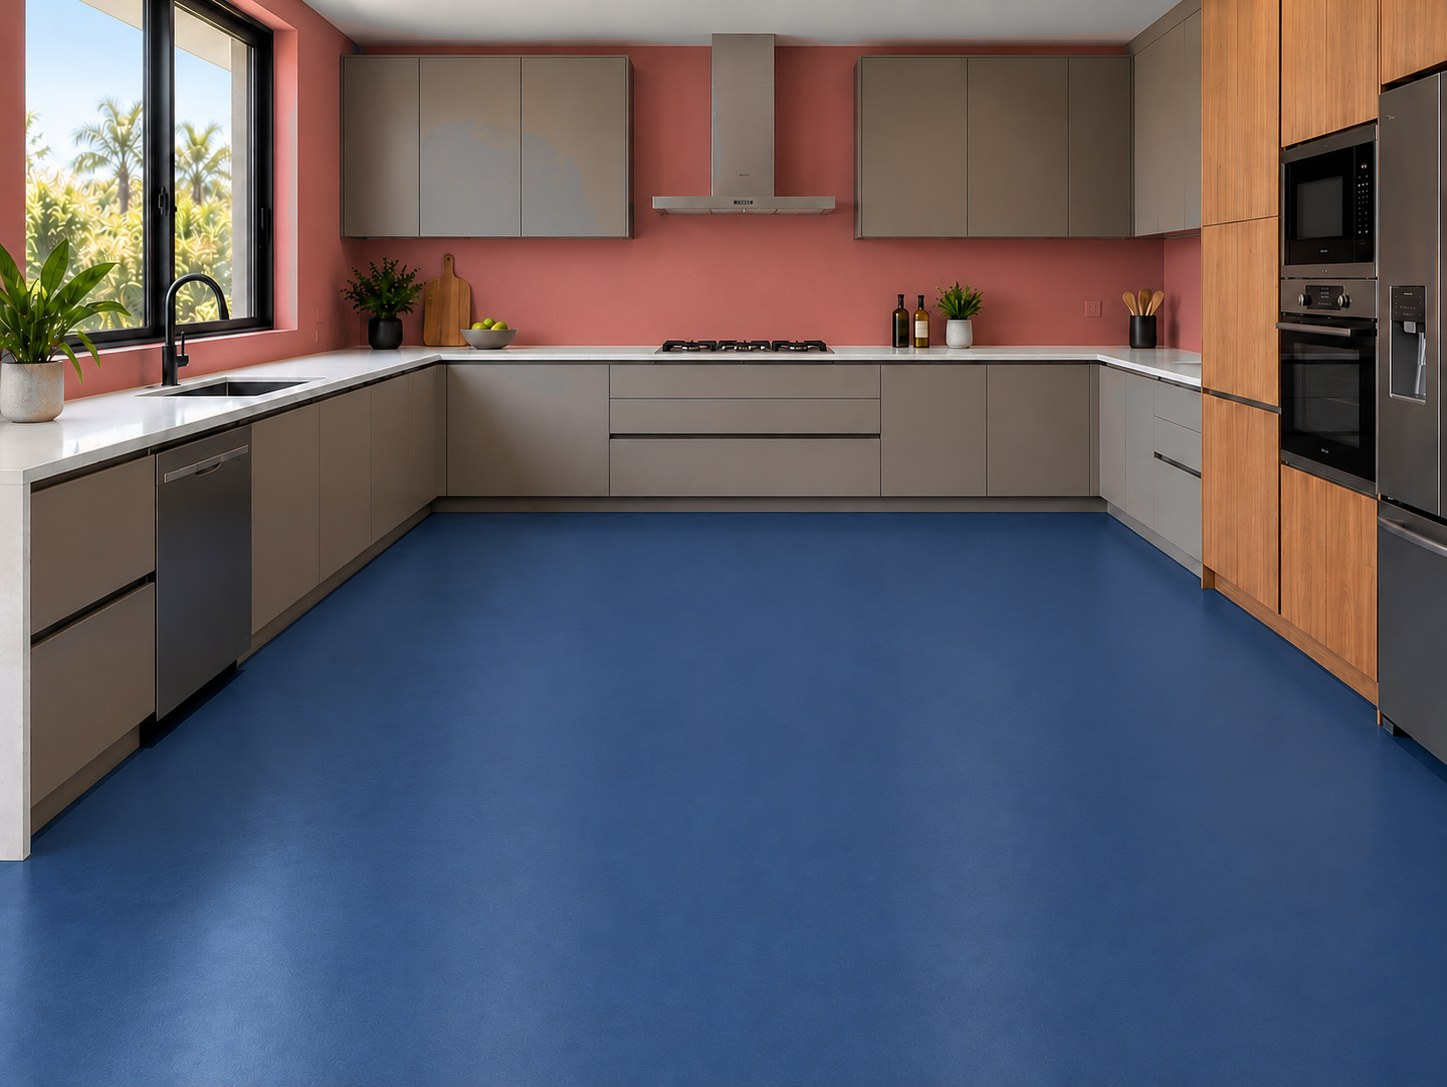
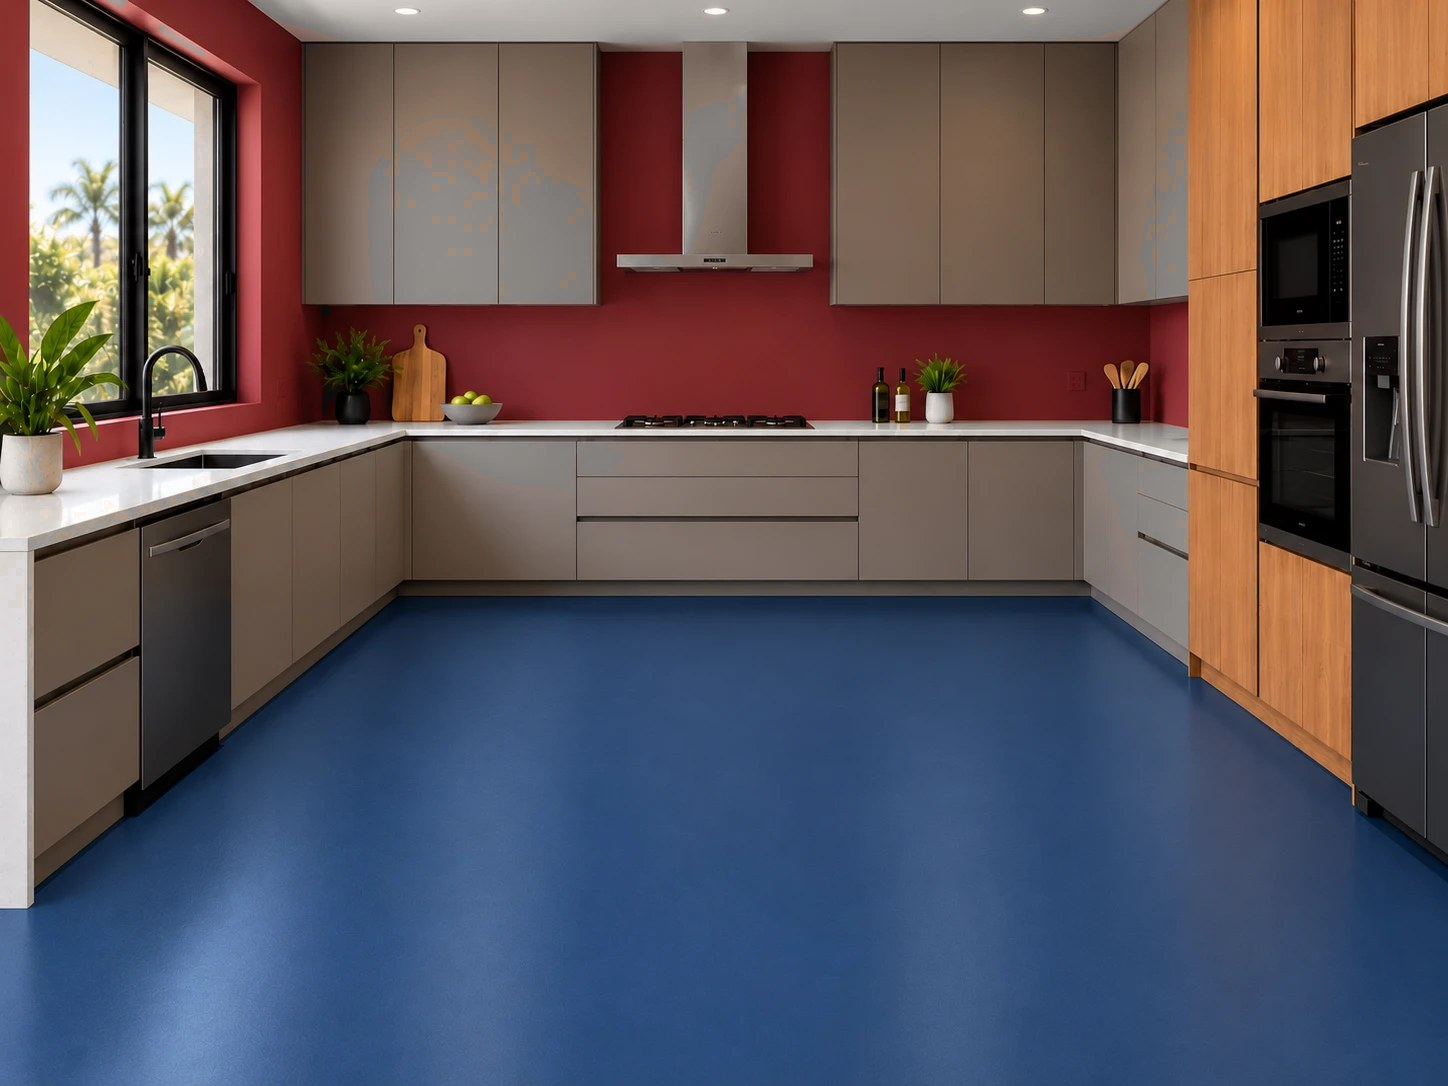
One kitchen, and it is the one with tall units
The coral kitchen is out at Mukuka's asking, and the red one takes its
name and its place in the list. Six rooms now, four of them with walls
that can be tiled: ensuite, bathroom, kitchen, kitchen and dining, living
room, veranda.

The reason is recorded in GO-LIVE rather than lost here. The coral kitchen
had about 150mm of wall between the top of its units and the ceiling,
which is twenty-five pixels in the picture where an 800mm tile is a
hundred and fifty, so what showed there was a slice of one tile rather
than any tiles. That was never a fault in the trace: the mask over that
strip was continuous along its whole length and sat within 4 per cent of
the paint. It is a fault in the room, and the fix is a room whose units
run to the ceiling.

The kitchen's trace is unchanged by the rename: 1164 columns, hue 4,
window 14, the same figures it had as kitchen-tall. Its scene and span
files are rewritten under the kitchen name and the old ones are deleted.

Checked at version 179: six rooms listed, all 173 tiles in the picker, the
kitchen tiling its red walls and leaving its oak alone.

diff --git a/aabrick_webstore/www/tile-visualiser/index.py b/aabrick_webstore/www/tile-visualiser/index.py
@@ -74,13 +74,27 @@ SCENES = [
         ]},
         {"id": "kitchen", "label": "Kitchen",
          "image": "/assets/aabrick_webstore/images/scene-kitchen.jpg",
-         "horizon": 242, "cx": 723, "focal": 930, "height": 1.45,
+         "horizon": 352, "cx": 724, "focal": 931, "height": 1.45,
          "floor": [
-            [0, 1086], [1446, 1086], [1445, 763], [1410, 737],
-            [1395, 736], [1390, 726], [1380, 726], [1375, 706],
-            [1215, 590], [1205, 589], [1200, 578], [1105, 512],
-            [435, 513], [235, 672], [35, 833], [30, 854],
-            [25, 859], [0, 861],
+            [0, 1085], [1447, 1085], [1445, 862], [1440, 850],
+            [1430, 843], [1425, 847], [1385, 818], [1370, 817],
+            [1355, 806], [1350, 788], [1200, 679], [1190, 678],
+            [1185, 665], [1090, 597], [400, 597], [215, 749],
+            [135, 816], [125, 817], [35, 888], [30, 907],
+            [25, 909], [0, 909],
+        ]},
+        {"id": "kitchen-dining", "label": "Kitchen and dining",
+         "image": "/assets/aabrick_webstore/images/scene-kitchen-dining.jpg",
+         "horizon": 279, "cx": 723, "focal": 930, "height": 1.45,
+         "floor": [
+            [0, 1086], [1446, 1086], [1445, 594], [1440, 601],
+            [1360, 557], [1350, 555], [1345, 547], [1340, 550],
+            [1335, 547], [1330, 539], [1325, 542], [1260, 508],
+            [1085, 505], [470, 504], [230, 679], [225, 693],
+            [210, 693], [145, 738], [140, 756], [125, 766],
+            [100, 773], [40, 818], [35, 819], [30, 825],
+            [25, 826], [20, 832], [15, 833], [10, 839],
+            [0, 844],
         ]},
         {"id": "living", "label": "Living room",
          "image": "/assets/aabrick_webstore/images/scene-living.jpg",
@@ -106,30 +120,6 @@ SCENES = [
             [130, 709], [120, 719], [105, 723], [95, 735],
             [90, 735], [60, 752], [55, 762], [45, 762],
             [40, 767], [35, 767], [0, 791],
-        ]},
-        {"id": "kitchen-tall", "label": "Kitchen, tall units",
-         "image": "/assets/aabrick_webstore/images/scene-kitchen-tall.jpg",
-         "horizon": 352, "cx": 724, "focal": 931, "height": 1.45,
-         "floor": [
-            [0, 1085], [1447, 1085], [1445, 862], [1440, 850],
-            [1430, 843], [1425, 847], [1385, 818], [1370, 817],
-            [1355, 806], [1350, 788], [1200, 679], [1190, 678],
-            [1185, 665], [1090, 597], [400, 597], [215, 749],
-            [135, 816], [125, 817], [35, 888], [30, 907],
-            [25, 909], [0, 909],
-        ]},
-        {"id": "kitchen-dining", "label": "Kitchen and dining",
-         "image": "/assets/aabrick_webstore/images/scene-kitchen-dining.jpg",
-         "horizon": 279, "cx": 723, "focal": 930, "height": 1.45,
-         "floor": [
-            [0, 1086], [1446, 1086], [1445, 594], [1440, 601],
-            [1360, 557], [1350, 555], [1345, 547], [1340, 550],
-            [1335, 547], [1330, 539], [1325, 542], [1260, 508],
-            [1085, 505], [470, 504], [230, 679], [225, 693],
-            [210, 693], [145, 738], [140, 756], [125, 766],
-            [100, 773], [40, 818], [35, 819], [30, 825],
-            [25, 826], [20, 832], [15, 833], [10, 839],
-            [0, 844],
         ]},
 ]
 
@@ -162,8 +152,7 @@ def get_context(context):
         "bathroom",
         "ensuite",
         "kitchen",
-        "kitchen-dining",
-        "kitchen-tall")
+        "kitchen-dining")
     stamped = []
     for s in SCENES:
         s = dict(s)

diff --git a/tools/bluetrace.py b/tools/bluetrace.py
@@ -29,29 +29,31 @@ APPIMG = os.environ.get(
 
 # file, id, label, how far back the furthest floor is in metres
 ROOMS = [
-    # file, id, label, how far back the furthest floor is in metres. The
-    # depths are the ones written into the prompts the rooms were generated
-    # from, so the camera follows from the room rather than from a guess.
+    # file, id, label, how far back the furthest floor is in metres.
     #
-    # Two of the nine that came in are not here. The second kitchen was lit
-    # by strips under its wall units, which wash coral down the cabinet
-    # fronts until a fifth of its wall mask lands on the dishwasher and the
-    # oak, against three per cent for this one. The second ensuite and the
-    # shower room traced perfectly well; Mukuka did not want them.
+    # The depths are measured rather than stated now. With the lens settled
+    # the horizon can be read off the picture, from where the feet of the
+    # two side walls meet, and the depth follows from it. The kitchen that
+    # was here before measured 5.0 against the 5.0 it had been asked for,
+    # which is the check on that.
+    #
+    # The coral kitchen that was here is gone. It had about 150mm of wall
+    # showing between the top of its units and the ceiling, which is a slice
+    # of a tile rather than a tile, and no trace can make that look laid.
+    # This one's units run to the ceiling, so the wall it does show is worth
+    # tiling.
     ("Coral and Navy Modern Bathroom.png",
      "ensuite",  "Ensuite",      4.5),
     ("Sunlit Coral and Navy Bathroom Spa.png",
      "bathroom", "Bathroom",     5.0),
-    ("Natural Light Modern Pink and Blue Kitchen.png",
-     "kitchen",  "Kitchen",      5.0),
+    ("kitchen-tall-units.webp",
+     "kitchen",  "Kitchen",      5.5),
+    ("kitchen-and-dining.webp",
+     "kitchen-dining", "Kitchen and dining", 6.0),
     ("Modern Navy Living Room Retreat.png",
      "living",   "Living room",  8.0),
     ("Modern Navy Patio with Garden Views.png",
      "patio",    "Veranda",     10.0),
-    ("kitchen-tall-units.webp",
-     "kitchen-tall", "Kitchen, tall units", 5.5),
-    ("kitchen-and-dining.webp",
-     "kitchen-dining", "Kitchen and dining", 6.0),
 ]
 
 STEP = 5

diff --git a/tools/walltrace.py b/tools/walltrace.py
@@ -34,14 +34,14 @@ OUT = ("/mnt/c/Users/HCCOMP~1/AppData/Local/Temp/claude/"
 # only says which colour in the room is the paint.
 ROOMS = [
     # file, id, roughly what colour the walls were painted, in degrees of
-    # hue. These rooms are all coral, which measures out between 6 and 12.
-    # The living room and the veranda are not here: their walls were never
-    # painted, so there is nothing to trace and they are floor only.
-    ("Coral and Navy Modern Bathroom.png",            "ensuite",  10.0),
-    ("Sunlit Coral and Navy Bathroom Spa.png",        "bathroom", 10.0),
-    ("Natural Light Modern Pink and Blue Kitchen.png", "kitchen", 10.0),
-    ("kitchen-tall-units.webp",   "kitchen-tall",    5.0),
-    ("kitchen-and-dining.webp",   "kitchen-dining", 10.0),
+    # hue. The bathrooms and the dining room are coral, about 10; the
+    # kitchen is a deep red, about 5. The living room and the veranda are
+    # not here: their walls were never painted, so there is nothing to
+    # trace and they are floor only.
+    ("Coral and Navy Modern Bathroom.png",      "ensuite",        10.0),
+    ("Sunlit Coral and Navy Bathroom Spa.png",  "bathroom",       10.0),
+    ("kitchen-tall-units.webp",                 "kitchen",         5.0),
+    ("kitchen-and-dining.webp",                 "kitchen-dining", 10.0),
 ]
 
 STEP = 1           # columns. One, not three: the mask is built in blocks

diff --git a/tools/unpaint.py b/tools/unpaint.py
@@ -51,12 +51,10 @@ APP = os.environ.get(
 # is the room, coral walls and all, and leaving it alone left a pale coral
 # patch in the top corner of the bathroom with tiled wall all around it.
 ROOMS = [
-    ("Coral and Navy Modern Bathroom.png",     "ensuite",  10.0, True),
-    ("Sunlit Coral and Navy Bathroom Spa.png", "bathroom", 10.0, True),
-    ("Natural Light Modern Pink and Blue Kitchen.png",
-     "kitchen", 10.0, True),
-    ("kitchen-tall-units.webp",   "kitchen-tall",    5.0, True),
-    ("kitchen-and-dining.webp",   "kitchen-dining", 10.0, True),
+    ("Coral and Navy Modern Bathroom.png",      "ensuite",   10.0, True),
+    ("Sunlit Coral and Navy Bathroom Spa.png",  "bathroom",  10.0, True),
+    ("kitchen-tall-units.webp",                 "kitchen",    5.0, True),
+    ("kitchen-and-dining.webp", "kitchen-dining", 10.0, True),
 ]
 
 FADE = 0.30        # below this the colour is not the paint itself

diff --git a/aabrick_webstore/hooks.py b/aabrick_webstore/hooks.py
@@ -268,7 +268,7 @@ override_doctype_class = {
 	"Item Group": "aabrick_webstore.overrides.item_group.AABrickItemGroup",
 }
 
-ASSET_VERSION = "178"
+ASSET_VERSION = "179"
 web_include_js = [
 	"/assets/aabrick_webstore/js/webstore.js?v=" + ASSET_VERSION,
 	"/assets/aabrick_webstore/js/nav.js?v=" + ASSET_VERSION,

diff --git a/GO-LIVE.md b/GO-LIVE.md
@@ -459,10 +459,10 @@ paste from Word in a way a template cannot.
 Until that is built, a picture in a guide needs a developer, same as the
 words.
 
-**The visualiser does walls, in five rooms of seven.** Asked for on
-2026-10-01, built on 2026-10-17. The ensuite, the bathroom, two kitchens
+**The visualiser does walls, in four rooms of six.** Asked for on
+2026-10-01, built on 2026-10-17. The ensuite, the bathroom, the kitchen
 and the kitchen-and-dining room were generated with their walls painted as
-well as their floors, so those five have a traced wall and a Floor / Walls
+well as their floors, so those four have a traced wall and a Floor / Walls
 switch above the tile grid. Each surface keeps its own choice, because
 almost nobody puts the same tile on both. In the living room and the
 veranda the Walls button is disabled and says why.
@@ -472,14 +472,14 @@ The source files live in `Local Sites/visualiser-rooms`, which the three
 scripts in `tools/` read by name.
 
 **A wall seen as a narrow band does not tile well, and cannot be made to.**
-The first kitchen has about 150mm of wall showing between the top of its
-units and the ceiling, which is twenty-five pixels in the picture where an
-800mm tile is a hundred and fifty. What shows there is a slice of one tile
-rather than any tiles, and a slice of stone reads as a smear however well
-it is traced: the mask over that strip is continuous and sits within 4 per
-cent of the paint. The kitchen with units running to the ceiling has no
-such strip and is the better room to show. Ask for full-height units, or
-for enough wall above them to fit a tile in.
+This is why there is one kitchen and not two. The coral one had about
+150mm of wall showing between the top of its units and the ceiling, which
+is twenty-five pixels in the picture where an 800mm tile is a hundred and
+fifty. What showed there was a slice of one tile rather than any tiles,
+and a slice of stone reads as a smear however well it is traced: the mask
+over that strip was continuous and sat within 4 per cent of the paint. The
+kitchen that shipped has units running to the ceiling and no such strip.
+Ask for full-height units, or for enough wall above them to fit a tile in.
 
 The engine was not rewritten. A wall stands on the floor, so the floor
 outline is also the skirting, and the depth of a wall in any column is the
